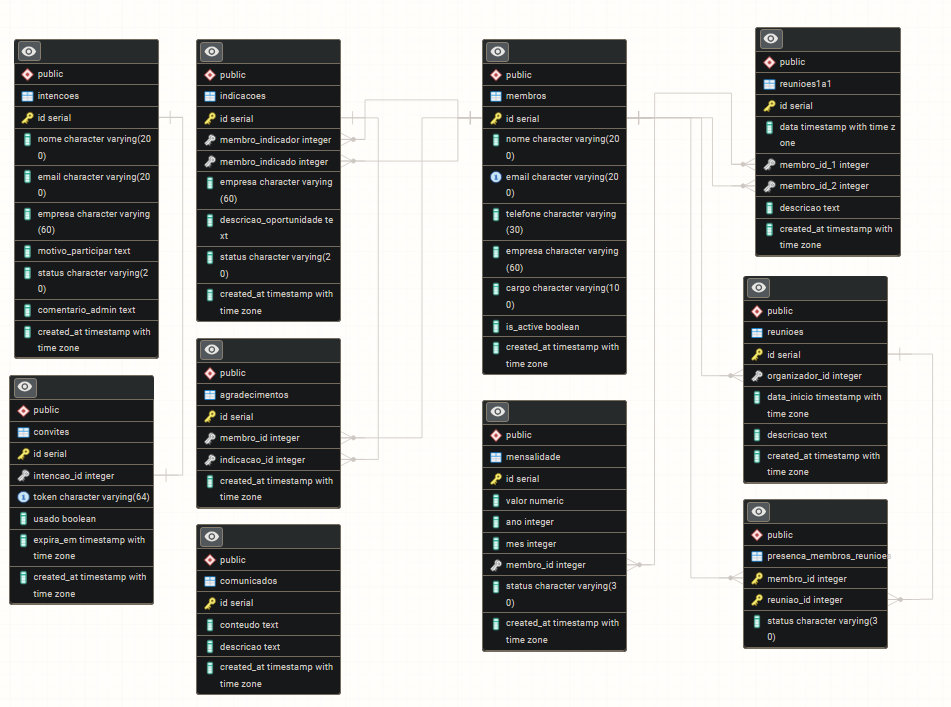
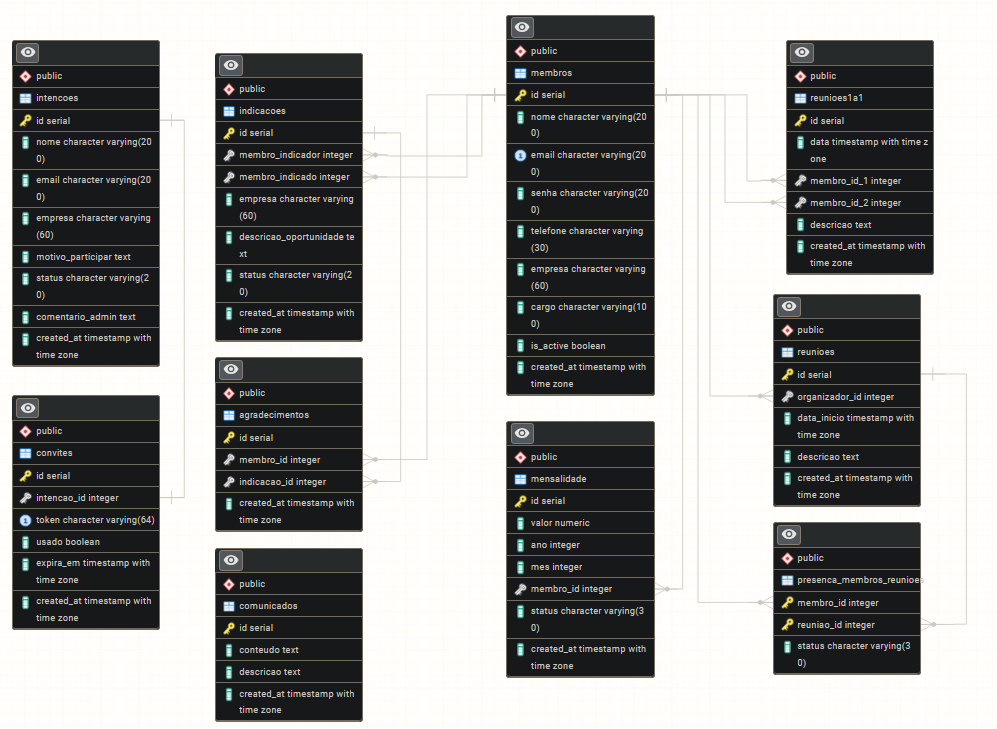
Adicionar docker-compose para rodar o projeto inteiro. Atualizar readme e arquitetura.md

Changed region(s): [[0.0, 0.0311, 0.3964, 0.9958], [0.7319, 0.0311, 0.9758, 0.9335], [0.4574, 0.0, 0.7014, 0.9335]]

diff --git a/ARQUITETURA.md b/ARQUITETURA.md
@@ -13,9 +13,10 @@ Stack proposta:
 - Frontend: **Next.js** e **React**
 - Backend: **Node.js** e **Express**
 - Banco de dados: **Relacional - PostgreSQL** [(Justificativas abaixo)](#Justificativas)
-- Testes: **Jest** + **React Testing Library**
+- Testes front: **Vitest** + **React Testing Library**
+- Testes front: **Jest** + **Supertest** + **Testcontainers**
 
-Autenticação administrativa: Simples via variável de ambiente (Variável `SENHA_ADMIN` definida no arquivo `.env`) para o escopo do teste
+Autenticação administrativa: Simples via variável de ambiente (Variável `SENHA_ADMIN` definida no arquivo `.env` do backend) para o escopo do teste
 
 #### Entregáveis:
 
@@ -52,6 +53,8 @@ Abaixo está o Diagrama Entidade-Relacionamento:
 
 ![Diagrama ER](DiagramaER.png "Diagrama Entidade-Relacionamento")
 
+(Obs: Para permitir administração de múltiplos grupos por sistema, bastaria criar uma tabela `Grupos` e adicionar uma coluna `grupo_id` nas tabelas de `intenções`, `membros`, `comunicados` e `reuniões` para relacioná-los a um grupo. Como a descrição da tarefa refere-se a "um grupo de networking", foi presumido que existe apenas um grupo por sistema.)
+
 - **(3) Organização dos componentes React**
 O projeto está organizado com pastas claras separadas por responsabilidade, e seguindo os novos padrões da versão 16 do next.js.
 A adoção da versão 16 permite o uso do App Router e de layouts aninhados, o que facilita o reaproveitamento e aninhamento de páginas e componentes. Nessa versão, o roteamento é feito a partir do diretório `/app` e usando o nome dos diretórios filhos que contém arquivos `page.tsx`. Então `/app/intencoes/page.tsx` seria acessado por `nomedoapp.com/intencoes`.
@@ -62,6 +65,7 @@ Abaixo está descrita a estrutura de diretórios de forma gráfica:
 /app
     layout.tsx                # layout root
     page.tsx                  # pagina root
+    /context                  # gerenciadores de estado
     /components
         /ui                   # componentes primitivos
             botao
@@ -71,19 +75,19 @@ Abaixo está descrita a estrutura de diretórios de forma gráfica:
             /intencoes
             /indicacoes
                 ...
-        /containers           # componentes que ligam services e hooks à UI
-            ...
     /intencoes                # estrutura de rotas para paginas de intencoes (next.js v16)
         layout
         page
     /indicacoes               # estrutura de rotas para paginas de indicacoes (next.js v16)
         layout
         page
+    /services                 # gerenciadores de requisições http
+        ...
 /public
     ...
-/services
-    ...
 /utils
+    ...
+/__tests__
     ...
 ```
 
@@ -91,13 +95,16 @@ Abaixo está descrita a estrutura de diretórios de forma gráfica:
 
 - **(4) Definição da API** 
 
-GET http://localhost:3000/intencoes
+- 1 - Endpoint: Buscar intenções
+Rota: GET /intencoes
+Parametros: -
+Resposta: 
 
-###
+- 2 - Endpoint: Cadastrar intenção
 POST http://localhost:3000/intencoes
 
-###
-PUT http://localhost:3000/intencoes/5/status
+- 3 - Endpoint: Alterar status de uma intenção
+PUT http://localhost:3000/intencoes/:id/status
 
 
 ---

diff --git a/README.md b/README.md
@@ -2,7 +2,20 @@
 
 Teste técnico para o processo seletivo de desenvolvedor fullstack na AG Sistemas
 
+## Executar o projeto
 
+O jeito mais fácil de rodar o projeto (em modo desenvolvimento) é por meio do Docker.
 
-#### Observação sobre o documento da arquitetura: 
-Talvez o documento da arquitetura esteja mais detalhado do que o necessário, mas como eu havia o conhecimento e o gosto pela área de arquitetura de software, optei por fazer algo mais elaborado e detalhado. Contudo, também inclui as informações mais importantes em um resumo.
+Depois disso, basta clonar o repositório, e em um terminal navegar até a raiz do projeto e executar no terminal:
+
+> docker-compose up -d
+
+Isso irá iniciar o banco de dados, o backend e o frontend, podendo levar 1 ou 2 minutos. Por rodar em modo build, algumas páginas podem demorar alguns segundos a mais para carregar na primeira vez que forem acessadas.
+
+Normalmente seria necessário configurar arquivos de ambiente (.env) mas por conveniência, deixei arquivos .env.public no repositório, que são usados na build de desenvolvimento feita com o docker.
+
+## Executar os testes
+
+Para iniciar os testes no backend, basta navegar para /projeto/backend e executar no terminal:
+
+> npm test
